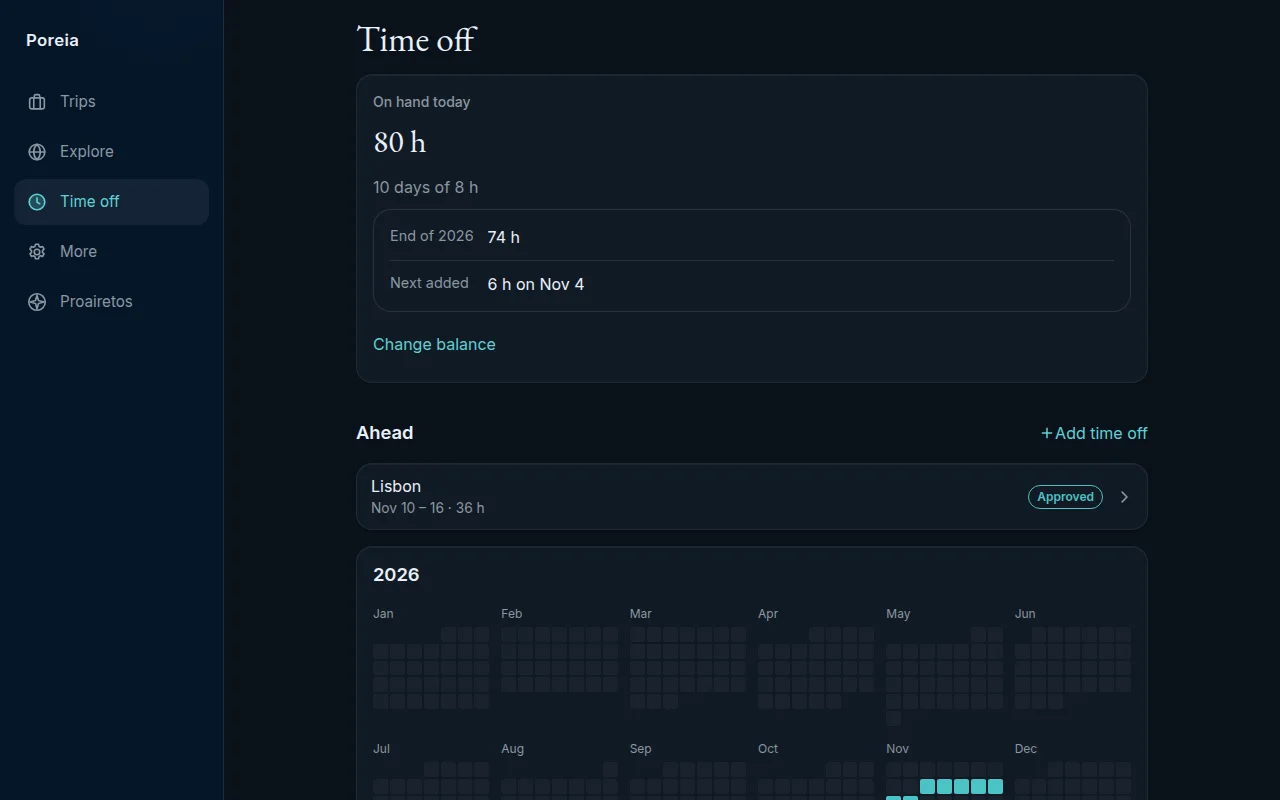
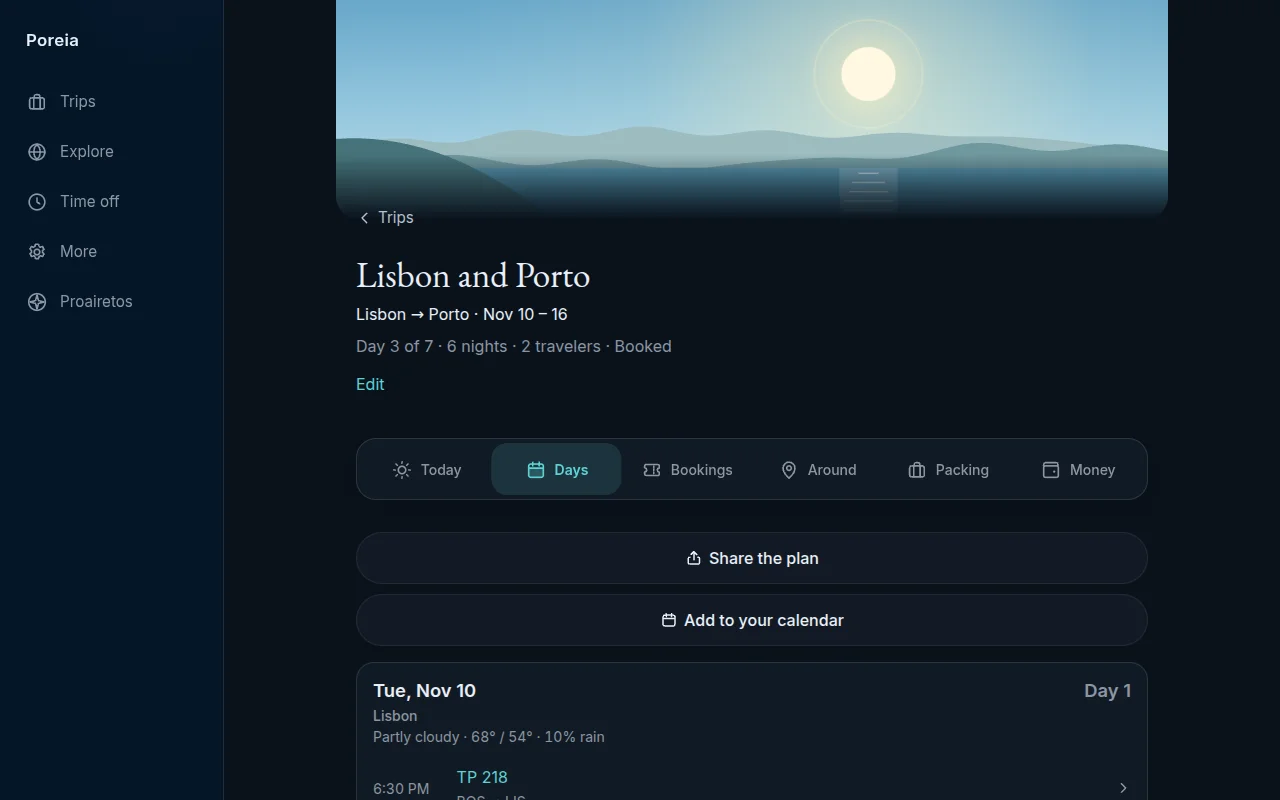
Poreia in the Store: current description, public page and install screenshots; computer layout for the trip's picture and tabs
Claude-Session: https://claude.ai/code/session_01N8anZuCLRDLCYndkcTu2xC

diff --git a/public/welcome/poreia/index.html b/public/welcome/poreia/index.html
@@ -4,16 +4,16 @@
     <meta charset="utf-8" />
     <meta name="viewport" content="width=device-width, initial-scale=1" />
     <title>Poreia: trips and time off</title>
-    <meta name="description" content="Plan a trip from the first idea to the last day: search stays, flights, cruises and events on the sites you already use, keep bookings and days together, and track time off against your work schedule." />
+    <meta name="description" content="Plan a trip from the first idea to home again: one place or several, days with their weather, bookings brought in from any confirmation, a map of what is around, packing, spending shared with the people going, and time off against your work schedule." />
     <meta property="og:title" content="Poreia: trips and time off" />
-    <meta property="og:description" content="Plan a trip from the first idea to the last day: search stays, flights, cruises and events on the sites you already use, keep bookings and days together, and track time off against your work schedule." />
+    <meta property="og:description" content="Plan a trip from the first idea to home again: one place or several, days with their weather, bookings brought in from any confirmation, a map of what is around, packing, spending shared with the people going, and time off against your work schedule." />
     <meta property="og:image" content="https://proairetos.com/social/proairetos.png" />
     <meta property="og:url" content="https://proairetos.com/welcome/poreia/" />
     <meta property="og:type" content="website" />
     <meta name="twitter:card" content="summary_large_image" />
     <link rel="canonical" href="https://proairetos.com/welcome/poreia/" />
     <link rel="icon" href="/poreia/icons/icon-192.png" />
-    <script type="application/ld+json">{"@context":"https://schema.org","@type":"WebApplication","name":"Poreia","url":"https://proairetos.com/poreia/","description":"Plan a trip from the first idea to the last day: search stays, flights, cruises and events on the sites you already use, keep bookings and days together, and track time off against your work schedule.","applicationCategory":"TravelApplication","operatingSystem":"Any (installable web app)","image":"https://proairetos.com/poreia/icons/icon-192.png","isPartOf":{"@type":"WebApplication","name":"Proairetos","url":"https://proairetos.com/"}}</script>
+    <script type="application/ld+json">{"@context":"https://schema.org","@type":"WebApplication","name":"Poreia","url":"https://proairetos.com/poreia/","description":"Plan a trip from the first idea to home again: one place or several, days with their weather, bookings brought in from any confirmation, a map of what is around, packing, spending shared with the people going, and time off against your work schedule.","applicationCategory":"TravelApplication","operatingSystem":"Any (installable web app)","image":"https://proairetos.com/poreia/icons/icon-192.png","isPartOf":{"@type":"WebApplication","name":"Proairetos","url":"https://proairetos.com/"}}</script>
     <style>
       :root {
         color-scheme: dark;
@@ -90,7 +90,7 @@
         <div>
           <a class="hero__mark" href="/welcome/" aria-label="All the apps"><img src="/poreia/icons/icon-192.png" alt="" width="64" height="64" /><span>Poreia</span></a>
           <h1>Trips and time off</h1>
-          <p class="lead">Plan a trip from the first idea to the last day: search stays, flights, cruises and events on the sites you already use, keep bookings and days together, and track time off against your work schedule.</p>
+          <p class="lead">Plan a trip from the first idea to home again: one place or several, days with their weather, bookings brought in from any confirmation, a map of what is around, packing, spending shared with the people going, and time off against your work schedule.</p>
           <div class="actions">
             <a class="button button--main" href="/poreia/">Open Poreia</a>
             <a class="button" href="#waitlist">Hear when it opens</a>
@@ -102,10 +102,12 @@
       <section class="wrap" aria-labelledby="what">
         <h2 id="what">What it does</h2>
         <ul class="points">
-          <li><h3>Around you</h3><p>A map of each trip with the guide’s picks, what is nearby and events in your dates, each with directions.</p></li>
-          <li><h3>Find and book</h3><p>Stays and flights with prices, then Booking.com, Airbnb, Google Flights, cruises and more with your dates.</p></li>
+          <li><h3>Days that fit</h3><p>Each day with its forecast, the walk between two places, and the stretches with nothing set.</p></li>
+          <li><h3>Bookings from anywhere</h3><p>Paste a confirmation, or bring in a PDF, a screenshot or a calendar invite; each lands on its day with its code.</p></li>
+          <li><h3>Together</h3><p>Share a trip with the people going: the same days, bookings, packing and spending, and who paid what.</p></li>
+          <li><h3>Around you</h3><p>A map of each place with the guide’s picks, what is nearby and events in your dates, with directions.</p></li>
           <li><h3>Time off</h3><p>Your balance and how it grows, with each trip’s hours counted from your work shifts.</p></li>
-          <li><h3>With Proairetos</h3><p>Approved time off takes those shifts off your schedule; trips show in Days ahead.</p></li>
+          <li><h3>With Proairetos</h3><p>Approved time off takes those shifts off your schedule; trips show on Today and in Days ahead.</p></li>
         </ul>
       </section>
 

diff --git a/src/app/family/FamilyApps.tsx b/src/app/family/FamilyApps.tsx
@@ -9,7 +9,7 @@ export const familyApps: readonly { id: FamilyApp; name: string; href: string; i
   { id: 'soma', name: 'Soma', href: '/soma/', icon: '/soma/icon.svg', line: 'Recipes and groceries', about: 'Recipes, a grocery list sorted by aisle, a loose week of meals, a list you can share, and each recipe’s Nutri-Score from what is in it.', tint: { ground: '#f3ede2', accent: '#2f5a3e', ink: '#2f5a3e' } },
   { id: 'oikonomia', name: 'Oikonomia', href: '/oikonomia/', icon: '/oikonomia/icon.svg', line: 'Bills and household essentials', about: 'Bills and subscriptions with their dates in view, a monthly plan by area, and what went out from your statements.', tint: { ground: '#0d1110', accent: '#d79572', ink: '#f2eee6' } },
   { id: 'hydros', name: 'Hydros', href: '/hydros/', icon: '/hydros/icon.svg', line: 'What you drink, through the day', about: 'Log a glass in one tap. Reminders through your waking hours or your work, and what you drank by day.', tint: { ground: '#061b25', accent: '#36c9f4', ink: '#a9edff' } },
-  { id: 'poreia', name: 'Poreia', href: '/poreia/', icon: '/poreia/icon.svg', line: 'Trips and time off', about: 'Plan trips, search stays, flights, cruises and events, keep bookings and days together, and track time off against your work schedule.', tint: { ground: '#071c24', accent: '#4cc3c7', ink: '#d9fbf6' } },
+  { id: 'poreia', name: 'Poreia', href: '/poreia/', icon: '/poreia/icon.svg', line: 'Trips and time off', about: 'Trips from the first idea to home again: days with their weather, bookings from any confirmation, a map of what is around, packing, spending shared with who is going, and time off against your work schedule.', tint: { ground: '#071c24', accent: '#4cc3c7', ink: '#d9fbf6' } },
   { id: 'praxis', name: 'Praxis', href: '/praxis/', icon: '/praxis/favicon.svg', line: 'Study, a block at a time', about: 'Timed study blocks with a bell, cards to look at again, and your study time by day.', tint: { ground: '#0b201a', accent: '#c9a274', ink: '#f4e9d2' } },
   { id: 'theoria', name: 'Theoria', href: '/theoria/', icon: '/theoria/favicon.svg', line: 'Reading, highlights and notes', about: 'Read your books and PDFs, keep highlights and notes, and bring in your Kindle highlights.', tint: { ground: '#0b1020', accent: '#d9b46a', ink: '#ede5d3' } },
   { id: 'diaita', name: 'Diaita', href: '/diaita/', icon: '/diaita/icon.svg', line: 'Sleep, light, food and caffeine around your schedule', about: 'Sleep, naps, light, caffeine and meals planned around your schedule, each line with its source.', tint: { ground: '#0e1014', accent: '#e2b26e', ink: '#ece8e1' } },

diff --git a/src/poreia/screens/TripPage.tsx b/src/poreia/screens/TripPage.tsx
@@ -371,7 +371,7 @@ export function NextUpCard({ trip, nav, day, home = false }: { trip: Trip; nav: 
   const next = nextUp(days, day, now);
   const phase = phaseOf(trip, day);
   if (!next || phase.kind === 'past') return null;
-  const later = next.date === day ? (days.find((each) => each.date === day)?.entries ?? []).filter((entry) => entry !== next.entry && (!entry.time || !next.entry.time || entry.time > next.entry.time)) : [];
+  const later = next.date === day ? (days.find((each) => each.date === day)?.entries ?? []).filter((entry) => entry !== next.entry && (!entry.time || entry.time >= now) && (!entry.time || !next.entry.time || entry.time > next.entry.time)) : [];
   return (
     <section className="card poreia-next">
       <h2 className="card__title">

diff --git a/src/poreia/styles/poreia.css b/src/poreia/styles/poreia.css
@@ -594,10 +594,26 @@
 
 @media (min-width: 48rem) {
   .poreia-tabs__tab {
-    grid-auto-flow: column;
+    display: flex;
     align-items: center;
+    justify-content: center;
     gap: 8px;
     font-size: var(--text-sm);
+  }
+}
+
+/* On computers the trip's picture is a band across the top of the column, with the title under it. */
+@media (min-width: 62rem) {
+  :root .page.poreia-page.poreia-trip {
+    padding-top: 196px;
+  }
+
+  .poreia-scene {
+    top: 0;
+    height: 220px;
+    border-radius: 0 0 var(--ll-outer, 24px) var(--ll-outer, 24px);
+    -webkit-mask-image: linear-gradient(to bottom, #000 70%, transparent);
+    mask-image: linear-gradient(to bottom, #000 70%, transparent);
   }
 }
 

diff --git a/public/welcome/index.html b/public/welcome/index.html
@@ -228,7 +228,7 @@
           </li>
           <li class="app">
             <div class="app__head"><img src="/poreia/icons/icon-192.png" alt="" width="44" height="44" /><h3 class="app__name">Poreia</h3></div>
-            <p>Plan trips, find stays, flights, cruises and events, and track time off with your work schedule.</p>
+            <p>Trips from the first idea to home again: days, bookings, what is around, packing, money and time off.</p>
             <img class="app__shot" src="/poreia/screenshots/narrow-1.webp" alt="Poreia on a phone" width="300" height="533" />
             <div class="app__actions">
               <a class="button" href="/poreia/">Open</a>
